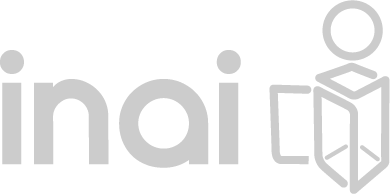
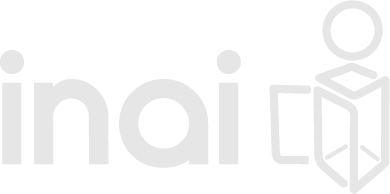
Se elimino hover de inai en captura

diff --git a/contratacionesabiertas/captura/public/inai-footer/dgm-footer.html b/contratacionesabiertas/captura/public/inai-footer/dgm-footer.html
@@ -1749,9 +1749,6 @@ Example:
         .sitioInt:hover{
             color: #e6e6e6;
         }
-        .inailogo:hover{
-            content: url(/images/inaiFHover.png)
-        }
         .mexdiglogo:hover{
             content: url(/images/MEXICO_DIGITALF_HOVER.png)
         }
@@ -1772,7 +1769,7 @@ Example:
                     <div class="pru col-md-4 col-lg-4" style="text-align: center; margin-top: 41px;">
                         <br><br><br><br><br>
                         <a href="http://inicio.inai.org.mx" target="_blank">
-                            <img src="/images/inaiF.png" alt="inai.org.mx" height="77px" class="inailogo">
+                            <img src="/images/inaiF.png" alt="inai.org.mx" height="77px">
                         </a>
                     </div>
                     <div class="pru col-md-4 col-lg-4" style="text-align: center; margin-top: 41px;">
